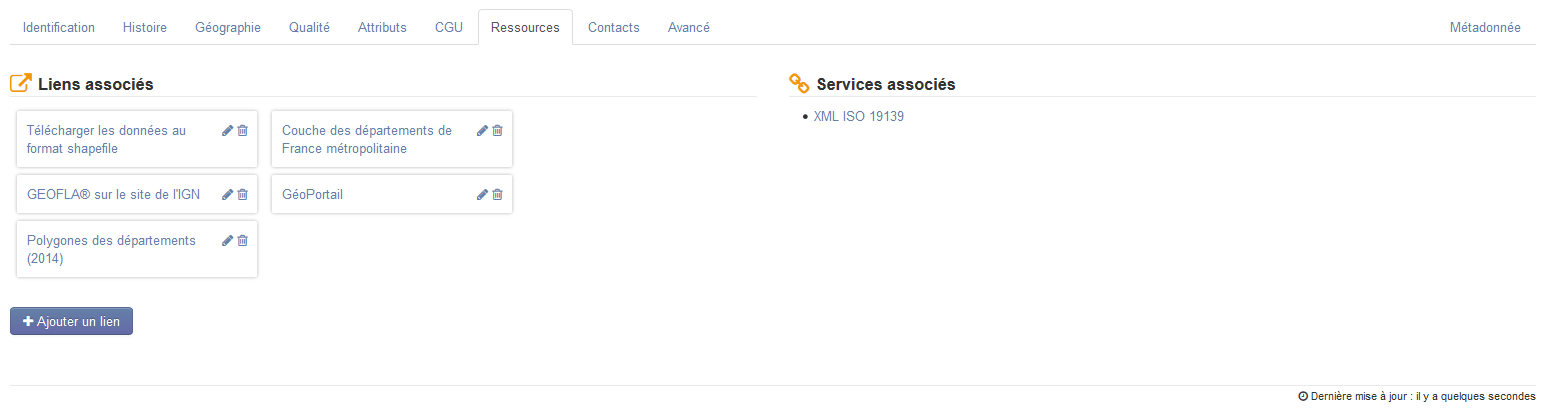
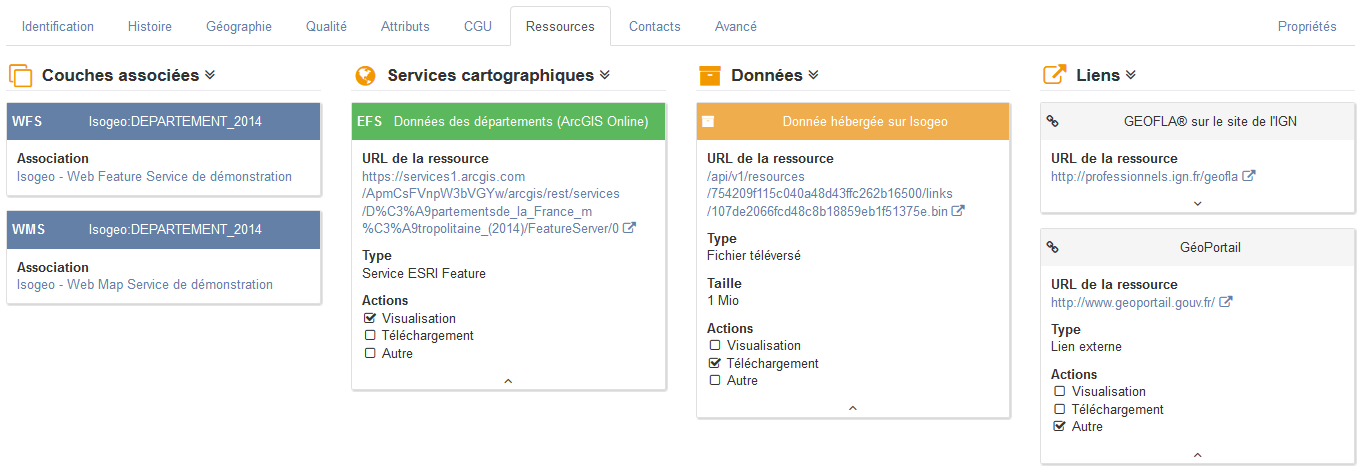
update linked resources tab

diff --git a/Help/fr/features/documentation/md_ressources.md b/Help/fr/features/documentation/md_ressources.md
@@ -4,14 +4,6 @@ L’onglet « Ressources » regroupe les liens vers les documents (cartes, stati
 
 ![Edition unitaire - Ressources](/images/inv_edit_one_linkedResources.png "L'édition unitaire - onglet Ressources")
 
-### La fiche au format XML (ISO 19139)
-
-La structure des fiches de métadonnées sur les jeux de données géographiques sont standardisées par l'ISO (International Organization for Standardization) sous la référence 19139, qui est l'implémentation XML du modèle 19115, elle-même définie par le [comité ISO /TC 211](https://en.wikipedia.org/wiki/ISO/TC_211), en charge des questions géograhiques au sein de l'organisme de standardisation.
-
-Pleinement interopérable, la plateforme Isogeo maintient à jour en permanence la [version 19139:2007](http://www.iso.org/iso/catalogue_detail.htm?csnumber=32557) des fiches de métadonnées, vous permettant de les récupérer à tout moment à des fins d'échanges ou d'import dans une autre fiche par exemple.
-
-Elle est systématiquement accessible dans la section `Services associés` de l'onglet Ressources d'une fiche ou sous le bouton `Télécharger` lorsque la fiche est partagée dans un OpenCatalog.
-
 ### Liens associés
 
 Dans Isogeo, on recense et documente les données sources, mais il est également possible de renseigner  les services (géographiques par exemple), documents ou téléchargements liés à chaque donnée. Cela permet d'**enrichir énormément l'expérience de consultation** des fiches et donc la valorisation du patrimoine.
